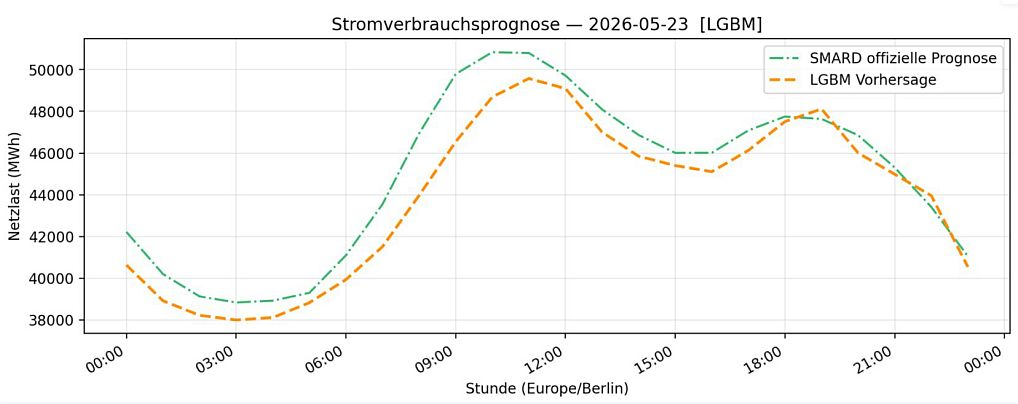
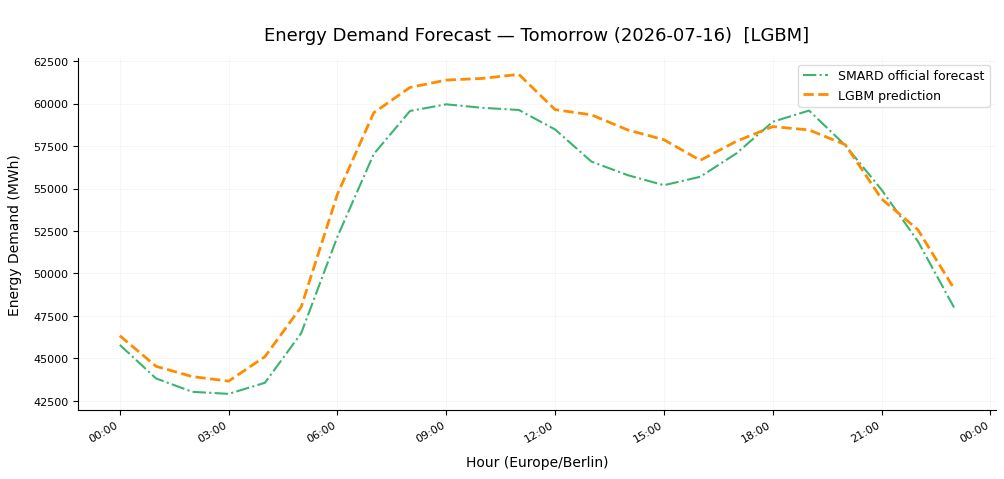
Updates

diff --git a/index.html b/index.html
@@ -5,7 +5,7 @@
     <link rel="icon" type="image/svg+xml" href="/vite.svg" />
     <meta name="viewport" content="width=device-width, initial-scale=1.0" />
     <title>Yuchuan Portfolio</title>
-    <script type="module" crossorigin src="/yuchuan-portfolio/assets/index-1e02204c.js"></script>
+    <script type="module" crossorigin src="/yuchuan-portfolio/assets/index-3f65c3d7.js"></script>
     <link rel="stylesheet" href="/yuchuan-portfolio/assets/index-f0f05b95.css">
   </head>
   <body>